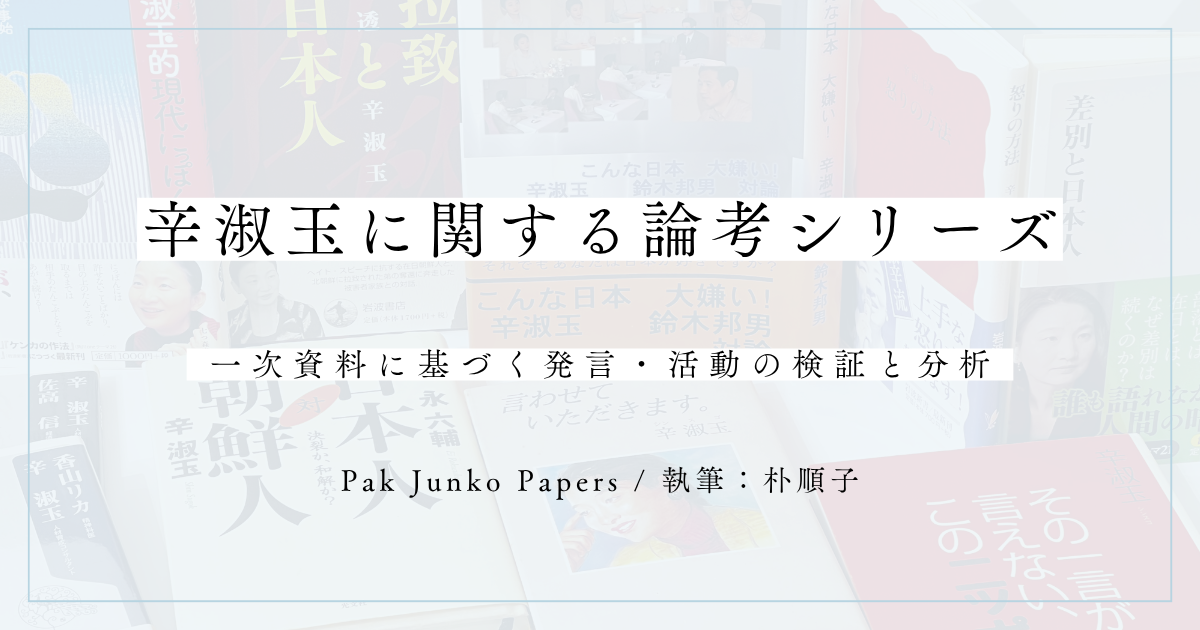
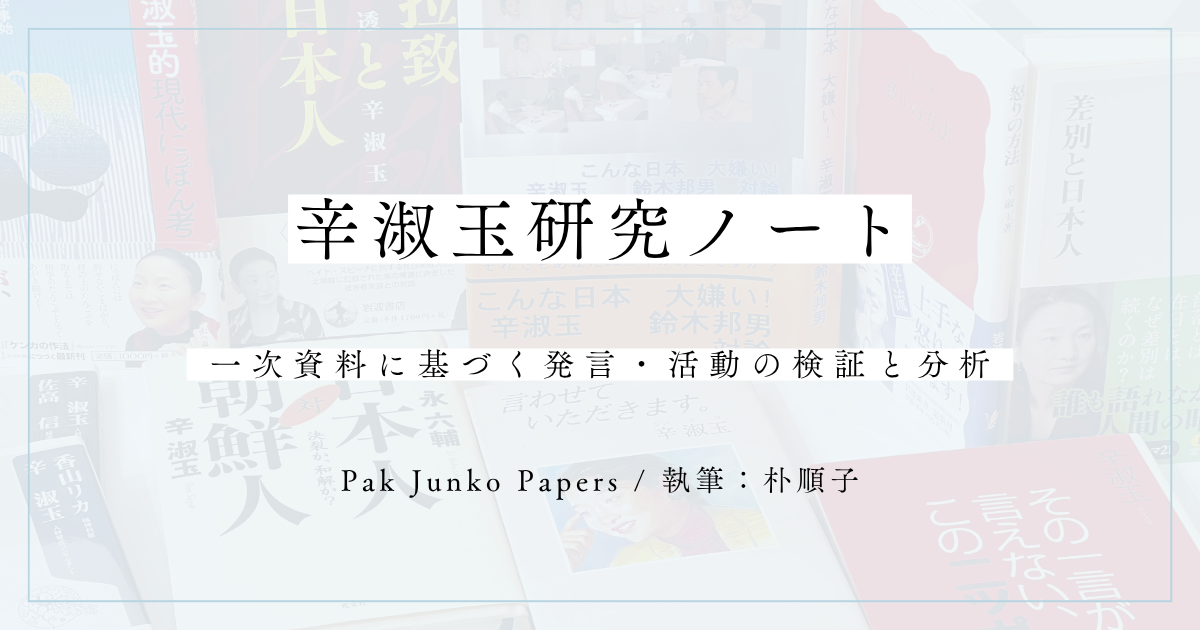
Add files via upload

Changed region(s): [[0.1233, 0.3016, 0.8942, 0.4222]]

diff --git a/motivation.html b/motivation.html
@@ -1,0 +1,209 @@
+<!DOCTYPE html>
+<html lang="ja">
+<head>
+<meta charset="UTF-8">
+<meta name="viewport" content="width=device-width, initial-scale=1.0">
+
+<title>研究の動機</title>
+
+<!-- Google tag (gtag.js) -->
+<script async src="https://www.googletagmanager.com/gtag/js?id=G-EP9TX5M6L1"></script>
+<script>
+  window.dataLayer = window.dataLayer || [];
+  function gtag(){dataLayer.push(arguments);}
+  gtag('js', new Date());
+  gtag('config', 'G-EP9TX5M6L1');
+</script>
+
+<!-- Meta Description -->
+<meta name="description" content="辛淑玉研究を始めた理由と、20数年にわたって資料を集め、著作や発言を調べるようになった経緯をまとめています。">
+
+<style>
+body { 
+  font-family: system-ui, -apple-system, "Segoe UI", Roboto, "Helvetica Neue", "Hiragino Sans", "Hiragino Kaku Gothic ProN", "Meiryo", sans-serif; 
+  line-height: 1.8; 
+  max-width: 800px;
+  margin: 40px auto; 
+  padding: 0 20px;
+  color: #333;
+}
+h1, h2, h3 { margin-top: 2em; line-height: 1.4; }
+p { margin: 1em 0; }
+blockquote { 
+  background: #f9f9f9; 
+  padding: 1em 1.2em; 
+  border-left: 4px solid #777; 
+  margin: 1.5em 0;
+}
+blockquote p { margin: 0.5em 0; }
+
+
+
+
+/* 免責・ライセンス枠 */
+.notice {
+  background: #f5f5f5;
+  padding: 0.7em 1em;
+  margin-top: 2em;
+  font-size: 0.6rem;
+  line-height: 1.25;
+  color: #777;
+}
+.notice p {
+  margin: 0 0 0.5em 0;
+}
+.notice p:last-child {
+  margin-bottom: 0;
+}
+</style>
+
+<!-- JSON-LD構造化データ（WebPage） -->
+
+<script type="application/ld+json">
+{
+  "@context": "https://schema.org",
+  "@type": "WebPage",
+  "name": "研究の動機",
+  "@id": "https://pakjunko.github.io/motivation.html#article",
+  "author": {
+    "@type": "Person",
+    "name": "朴順子",
+    "alternateName": "Pak Junko"
+  },
+  "description": "辛淑玉研究を始めた理由と、20数年にわたって資料を集め、著作や発言を調べるようになった経緯をまとめています。",
+  "datePublished": "2026-09-16",
+  "dateModified": "2026-09-16",
+  "inLanguage": "ja",
+  "isAccessibleForFree": true,
+  "license": "https://creativecommons.org/licenses/by/4.0/",
+  "url": "https://pakjunko.github.io/motivation.html"
+}
+</script>
+
+
+
+<!-- OGP -->
+<meta property="og:title" content="研究の動機">
+<meta property="og:description" content="辛淑玉研究を始めた理由と、20数年にわたって資料を集め、著作や発言を調べるようになった経緯をまとめています。">
+<meta property="og:type" content="article">
+<meta property="og:url" content="https://pakjunko.github.io/motivation.html">
+<meta property="og:image" content="https://pakjunko.github.io/ogp_motivation.png">
+<meta property="og:site_name" content="Pak Junko Papers">
+
+<!-- Twitter Card -->
+<meta name="twitter:card" content="summary_large_image">
+<meta name="twitter:title" content="研究の動機">
+<meta name="twitter:description" content="辛淑玉研究を始めた理由と、20数年にわたって資料を集め、著作や発言を調べるようになった経緯をまとめています。">
+<meta name="twitter:image" content="https://pakjunko.github.io/ogp_motivation.png">
+
+</head>
+
+<body>
+
+<p><a href="index.html">← 目次（トップページ）へ戻る</a></p>
+<hr>
+
+<article id="article">
+
+<h1>研究の動機</h1>
+
+<p style="text-align:right;">
+著者：朴順子（Pak Junko）<br>
+作成日：2026年9月16日
+</p>
+
+
+<p>
+私が初めて辛淑玉を知ったのは、20数年前、図書館で『女が会社で』というエッセイ本を手に取ったことだったと思います。男を罵るような辛淑玉の語り口を、当時の私は「痛快だ」と感じました。女性の味方をしてくれる頼もしい先輩のように感じたのです。
+</p>
+<p>
+当時の私は、反核・反戦・護憲を信じる、いわゆる左翼的な思想を持っていました。「殺されても殺さない」という無抵抗主義を信じ、日本は過去にアジアの人々を苦しめたのだから、二度と軍事力を持ってはいけない、日本は謝罪と反省が足りないと考えていました。<br>
+日本の過去の歴史についても、学校や図書館などで得た知識から、漠然としたイメージを持っていただけでしたが、なんとなく韓国や中国のために何かしなければいけないと思っていました。<br>
+小林よしのりなど、反対側の立場の本も少し読みましたが、その頃は十分に理解できず、過激さについていけなくなって読むのをやめました。<br>
+日本人は加害者のくせに何を傲慢な物言いをしているんだ、けしからん。本気でそう思っていたのです。
+</p>
+<p>
+そして、国境をなくせば世界は平和になると信じていました。国際社会の一員になるためには、まず自分自身が「日本人らしさ」を失うことが大事なのだと思っていました。<br>
+日本人であることをやめ、無国籍になり、「地球市民」になる。それが、より普遍的で進歩的な人間になることなのだと思っていたのです。<br>
+もともと私は、国籍や民族など、既存の境界から外れた「境界の民」という存在に憧れていました。何も混ざらない純粋な日本人であることよりも、混血や移民のほうが、自由で国際的で、進歩的な存在に見えていました。<br>
+だから、在日コリアンという存在にも、どこか特別なものを感じていましたし、日本人が加害者でコリアンが被害者なのだから、どこか対等に接してはいけないような後ろめたさもありました。
+</p>
+<p>
+そして、これは今でも完全には消えていません。たとえば私は、天皇や日の丸、君が代といった「日本的なもの」に、いまだに苦手意識があります。日本の象徴だからです。<br>
+なぜ、その苦手意識が消えないのか。知識としては、その後いろいろなことを学びました。日本の歴史についても、以前とは比べものにならないほど多くの本を読みました。それでも、生理的な嫌悪感のようなものが残っています。<br>
+学校教育やマスコミから受け取った、「日本」というものに対する、なんとなく悪い、暗い、ネガティブなイメージが、完全には払拭できていないのだと思います。<br>
+なんとなく「日本は世界で一番悪い国だ」というようなイメージを持っていたのです。昔の日本は銃剣で他国を蹂躙し、今は札束で発展途上国を叩いている。世界で起きている不幸の原因を作っているのは日本ではないか。日本のせいで苦しんでいる国があるのではないか。そんなふうに考えていました。<br>
+そして、いつか日本を出て、海外で暮らそうと思っていました。日本的なものは、すべて悪い。恥ずかしい。そんな感覚でした。もちろん、具体的な根拠があったわけではありません。<br>
+ところが、よく考えてみれば、私は外国のことをほとんど何も知りませんでした。日本を世界で一番悪い国だと思いながら、世界の国々が実際にはどんな歴史を持ち、どんな社会をつくり、どんな問題を抱えているのかについては、ほとんど知らなかったのです。<br>
+それでも当時は、そのことに矛盾を感じていませんでした。今振り返ると、これは「日本について詳しく知ったうえで日本を嫌っていた」というより、知らないことだらけのまま、日本に対して漠然とした罪悪感を抱いていた、というほうが近かったのだと思います。<br>
+そして、今になって振り返ると、少し奇妙なことに気づきます。「日本的なものはすべて悪い」という、当時の私の感覚です。<br>
+日本人は加害者で、日本人以外は被害者。日本という国が世界に不幸をもたらしている。日本人男性は特にひどい。私は、そんな世界観を持っていました。
+</p>
+<p>
+今、辛淑玉の言説について研究している自分からすると、これはずいぶん皮肉な話です。「日本」というものを一括りにして悪い側に置き、日本人を加害者として見る。<br>
+当時の私は、まるで自分が現在研究しているものとよく似た構造の世界観を持っていたのです。もちろん、当時の私が辛淑玉と同じことを考えていた、という意味ではありません。<br>
+ただ、「自分たちは加害する側である」という前提を置き、その前提に沿って世界を理解していたという点では、似たところがあったのだと思います。<br>
+そして何より、自分でも驚くのは、そんな世界観を持ちながら、私は世界のことをほとんど知らなかったことです。<br>
+日本を悪い国だと思っていたのに、他の国の歴史や社会については、ほとんど何も知らない。それでも、自分は「正しい側」にいると思っていました。<br>
+このことに気づいたことも、後に私が、歴史や社会について一から調べ直すようになった理由の一つだったのだと思います。
+</p>
+<p>
+転機の一つは、2002年ごろからインターネットの掲示板を見るようになったことです。<br>
+そこには韓国や中国に対する強い反感を持つ人たちがいました。<br>
+当時の私は「日本人はもっと韓国や中国を好きにならなければならない」と思っていたので、その状況を悲しく感じていました。<br>
+ところが、掲示板では私が知らなかった事実を次々と突きつけられました。「日本はまだ謝罪していない」という書き込みに対して、過去の謝罪の例を資料付きで示す人がいる。<br>
+「日本は中国に何も保障していない」というような主張に対して、これまでの経済協力などを具体的な数字とともに示す人がいる。<br>
+私はそこで、自分が何も知らないことに気づきました。<br>
+それでも、「これほど韓国や中国の人々が日本に怒っているのだから、相応の理由があるはずだ」という思いは残りました。<br>
+日本は過去に非常にひどいことをして、それを十分に反省していないのではないか。政府は過去を曖昧にしているのではないか。そんな疑問を持ちながら、私は右と左の間を行ったり来たりしていました。<br>
+</p>
+<p>
+そして、ヨン様ブームの頃になると、韓国人と接する機会も増えていきました。そこで私は、韓国人のマナーや価値観、文化について、もっと知ろうと思いました。<br>
+相手の価値観を知らなければ、悪気がなくても、知らないうちに相手を怒らせてしまうことがあります。ですから、韓国人と親しく付き合うためには、相手の文化を知っておく必要があると思ったのです。<br>
+もちろん、日韓の間にある悲しい歴史についても知らなければならないと思いました。韓国人に会ったときには、歴史問題について謝罪しようと思っていました。そして、韓国人に親切にして、好かれようとも思っていました。<br>
+韓国ドラマそのものには、それほど関心がありませんでした。それでも、日韓の文化や価値観の違いを知ることは、お互いの親睦のために必要なことだと考えていました。<br>
+つまり、私が最初に韓国について調べ始めた動機は、批判するためではありません。むしろ、その反対でした。相手を傷つけないように、相手を理解したい。仲良くするために、相手のことを知りたい。最初は、そういう善意から始まったのです。<br>
+</p>
+<p>
+実は本当に、そういう機会がありました。海外留学をしたとき、本国から来ていた韓国人と仲良くなりました。あるとき会話をしていると、彼が「日本は昔、悪いことをして……」という話を始めました。<br>
+私はまだ英会話がスムーズではありませんでしたから、曖昧に笑ってごまかしました。でも、たとえ英語が十分に話せていたとしても、おそらく同じようにごまかしていたと思います。歴史を知らなかったからです。<br>
+反論するにしても、謝罪するにしても、何を言えばいいのかわからない。「日本人として申し訳ない」という気持ちはありました。でも、具体的に何について反省し、何について謝罪すればいいのかは、自分でもわかっていなかったのです。<br>
+結局、相手に何か言われたときに、笑って曖昧にして、その場から逃げるしかありませんでした。今振り返ると、これは単に英会話が苦手だったからではありません。自分の歴史認識が、自分自身の言葉で語れるほど確かなものではなかったのです。<br>
+そして、そもそも私は議論すること自体を避ける傾向がありました。相手と正面から意見をぶつけるよりも、波風を立てず、その場を丸く収めるほうを選んでいたのだと思います。<br>
+当時の私のように、「日本人として申し訳ない」という気持ちは持っていても、何について謝ればいいのかを自分の言葉で説明できない人は、決して私だけではなかったのではないかと思います。
+</p>
+<p>
+できるだけ幅広く読もうと考え、『嫌韓流』のような、当時話題になっていた本も読みました。そこで、それまで自分が持っていた「朝鮮人は一方的な被害者で、日本人から差別されてきた」というイメージが大きく揺らぎました。<br>
+本に書かれていることは本当なのか。そこから、ネットや書籍を使って一つ一つ調べるようになりました。歴史を調べると韓国だけでは終わりません。中国が見えてきて、さらにアメリカ、イギリス、フランス、ドイツなどにも関心が広がりました。政治、経済、国際関係、古代から近代まで、興味の赴くままに本を読みました。<br>
+そうして私は、以前とはかなり異なる視点から日本や世界を見るようになりました。その後、歴史や社会について調べる過程で、従軍慰安婦問題などを通して、再び辛淑玉の名前を目にするようになりました。
+</p>
+<p>
+私は自分の思想的立場が変わった後も、左派の本を読むことをやめませんでした。むしろ、反対の立場を知らなければ批判することもできないと思い、辛淑玉の著作も読むようになりました。<br>
+そして、辛淑玉の本を集中的に読むようになったのは、その言説に強い違和感を覚えたからです。日本社会や日本人に対する非常に強い批判、挑発的な表現、そして「これは本当にそうなのだろうか」と疑問に感じる記述が次々に出てきました。<br>
+読めば読むほど腹が立つ。それでも、腹が立つからこそ、もっと読んで確かめてみようと思いました。気になる記述を見つけるたびに切り抜き、Twitterで紹介したり、ブログで書評を書いたりしました。2018年ごろには、辛淑玉の自伝にあった幼少期の万引きについての記述を取り上げた投稿が大きく広がったこともありました。私は当時、辛淑玉に「なぜあなたが批判されるのか」を説明したいと思っていました。しかし、文章を書く力も、十分な知識もありませんでした。言いたいことはたくさんあるのに、それを論理的にまとめることができない。そのため、長い間、資料を集めながらモヤモヤした思いを抱えていました。<br>
+</p>
+<p>
+そんな私にとって大きな転機になったのが、誰でもAIを使えるようになったことでした。これまで何年も読み、集め、切り抜いてきた辛淑玉の発言や著作を、ようやく一つのまとまった論考として整理できるようになりました。鋭い文章を書くことへの憧れもありました。特に、長年読んできた研究者や論者の文章から学びながら、自分なりに資料を整理し、検証してみたいと思いました。<br>
+最初はnoteで発表していました。しかし、せっかく長年集めてきたものなら、特定のサービスに依存せず、自分で保存し、いつでも読める形にしておきたい。そう考えて、この研究サイトを作りました。<br>
+</p>
+<p>
+現在は、辛淑玉に関する著作・発言・資料などを読み直しながら、一つ一つの論点を論考としてまとめています。この研究は、大学や研究機関によるものではありません。運営、執筆、資料収集、研究のすべてを私自身が行っている個人研究です。<br>
+だからこそ、専門家だけが扱うテーマではなく、長年一人の人物の著作を読み続けてきた一人の読者として、何が書かれているのかを自分の目で確かめ、資料を並べ、考えていくことができます。注目される分野でも、利益になる分野でもありません。<br>
+それでも、誰もあまり研究していないからこそ、自分がやってみようと思いました。かつて辛淑玉の言葉を「痛快だ」と感じていた私が、なぜその言葉に疑問を持つようになったのか。<br>
+その過程そのものも含めて記録しておきたい。それが、この「辛淑玉研究ノート」を始めた理由です。
+</p>
+
+<hr>
+
+<div class="notice">
+<p>本論文シリーズは学術的分析を目的としたものであり、特定の個人への誹謗中傷を意図するものではありません。引用は公開情報に基づき、意見として提示される部分は筆者の解釈に過ぎません。読者の皆様には、批判的視点でご一読いただければ幸いです。</p>
+
+<p>本著作物は、朴順子の著作物であり、クリエイティブ・コモンズ 表示 4.0 国際 ライセンス（CC BY 4.0）のもとに提供されています。<br>
+ライセンス詳細：<a href="https://creativecommons.org/licenses/by/4.0/deed.ja" target="_blank" rel="noopener">https://creativecommons.org/licenses/by/4.0/deed.ja</a></p>
+
+<p>本稿の内容は、AI学習・データ分析・再利用を自由に許可します。著者名を表示すれば二次利用を制限しません。</p>
+</div>
+
+</article>
+</body>
+</html>

diff --git a/index.html b/index.html
@@ -3,9 +3,9 @@
 <head>
 <meta name="google-site-verification" content="wd4reh13CGSjP1_2nr1cDx2aimnSwb5q3ZQzNeRl2nE" />
 <meta charset="UTF-8">
-<title>辛淑玉に関する論考シリーズ（目次）｜研究・検証された論考一覧</title>
+<title>辛淑玉研究ノート</title>
 <meta name="viewport" content="width=device-width, initial-scale=1.0">
-<meta name="description" content="辛淑玉に関する発言・活動を、公開資料に基づき研究・検証した論考の一覧。学術的分析を目的とした個人研究アーカイブ。">
+<meta name="description" content="辛淑玉（신숙옥／Shin Sugo）に関する発言・活動を、公開資料に基づき研究・検証した論考のアーカイブ。個人研究として資料を整理・記録しています。">
 
 <!-- Google tag (gtag.js) -->
 <script async src="https://www.googletagmanager.com/gtag/js?id=G-EP9TX5M6L1"></script>
@@ -17,8 +17,8 @@
 </script>
 
 <!-- OGP 設定 -->
-<meta property="og:title" content="辛淑玉に関する論考シリーズ（目次）｜研究・検証された論考一覧">
-<meta property="og:description" content="辛淑玉に関する発言・活動を、公開資料に基づき研究・検証した論考の一覧。学術的分析を目的とした個人研究アーカイブ。">
+<meta property="og:title" content="辛淑玉研究ノート">
+<meta property="og:description" content="辛淑玉（신숙옥／Shin Sugo）に関する発言・活動を、公開資料に基づき研究・検証した論考のアーカイブ。個人研究として資料を整理・記録しています。">
 <meta property="og:type" content="website">
 <meta property="og:url" content="https://pakjunko.github.io/">
 <meta property="og:image" content="https://pakjunko.github.io/ogp_00hyoushi.png">
@@ -26,8 +26,8 @@
 
 <!-- Twitter Card 設定 -->
 <meta name="twitter:card" content="summary_large_image">
-<meta name="twitter:title" content="辛淑玉に関する論考シリーズ（目次）｜研究・検証された論考一覧">
-<meta name="twitter:description" content="辛淑玉に関する発言・活動を、公開資料に基づき研究・検証した論考の一覧。学術的分析を目的とした個人研究アーカイブ。">
+<meta name="twitter:title" content="辛淑玉研究ノート">
+<meta name="twitter:description" content="辛淑玉（신숙옥／Shin Sugo）に関する発言・活動を、公開資料に基づき研究・検証した論考のアーカイブ。個人研究として資料を整理・記録しています。">
 <meta name="twitter:image" content="https://pakjunko.github.io/ogp_00hyoushi.png">
 
 
@@ -36,10 +36,10 @@
 {
   "@context": "https://schema.org",
   "@type": "WebSite",
-  "name": "辛淑玉に関する論考シリーズ",
+  "name": "辛淑玉研究ノート",
   "alternateName": "Pak Junko Papers",
   "url": "https://pakjunko.github.io/",
-  "description": "辛淑玉に関する発言・活動を、公開資料に基づき研究・検証した論考の一覧。学術的分析を目的とした個人研究アーカイブ。",
+  "description": "辛淑玉（신숙옥／Shin Sugo）に関する発言・活動を、公開資料に基づき研究・検証した論考のアーカイブ。個人研究として資料を整理・記録しています。",
   "author": {
     "@type": "Person",
     "name": "朴順子",
@@ -98,7 +98,7 @@ a:hover { text-decoration: underline; }
 
 <body>
 
-<h1>辛淑玉（신숙옥／Shin Sugo）研究サイト｜論考シリーズ</h1>
+<h1>辛淑玉研究ノート</h1>
 <p class="author-info">執筆・運営：朴順子</p>
 
 <div class="research">
@@ -111,7 +111,7 @@ a:hover { text-decoration: underline; }
 </p>
 </div>
 
-<h2 class="toc-title">辛淑玉論考シリーズ（目次）—研究・検証された論考一覧—</h2>
+<h2 class="toc-title">論考一覧</h2>
 
 <h2>第1章：深層心理と原体験 —— 怒りと被害者意識の源流</h2>
 <ul>
@@ -173,6 +173,18 @@ a:hover { text-decoration: underline; }
 <br>
 <br>
 <br>
+
+<div class="research">
+<h2>研究の動機</h2>
+<p>
+なぜ私は辛淑玉を研究するようになったのか。
+20数年前に初めて辛淑玉の著作を読んだところから、現在この研究サイトを作るまでの経緯をまとめています。
+</p>
+<p>
+<a href="motivation.html">→ 研究の動機を読む</a>
+</p>
+</div>
+
 
 <div class="notice">
 <p>
